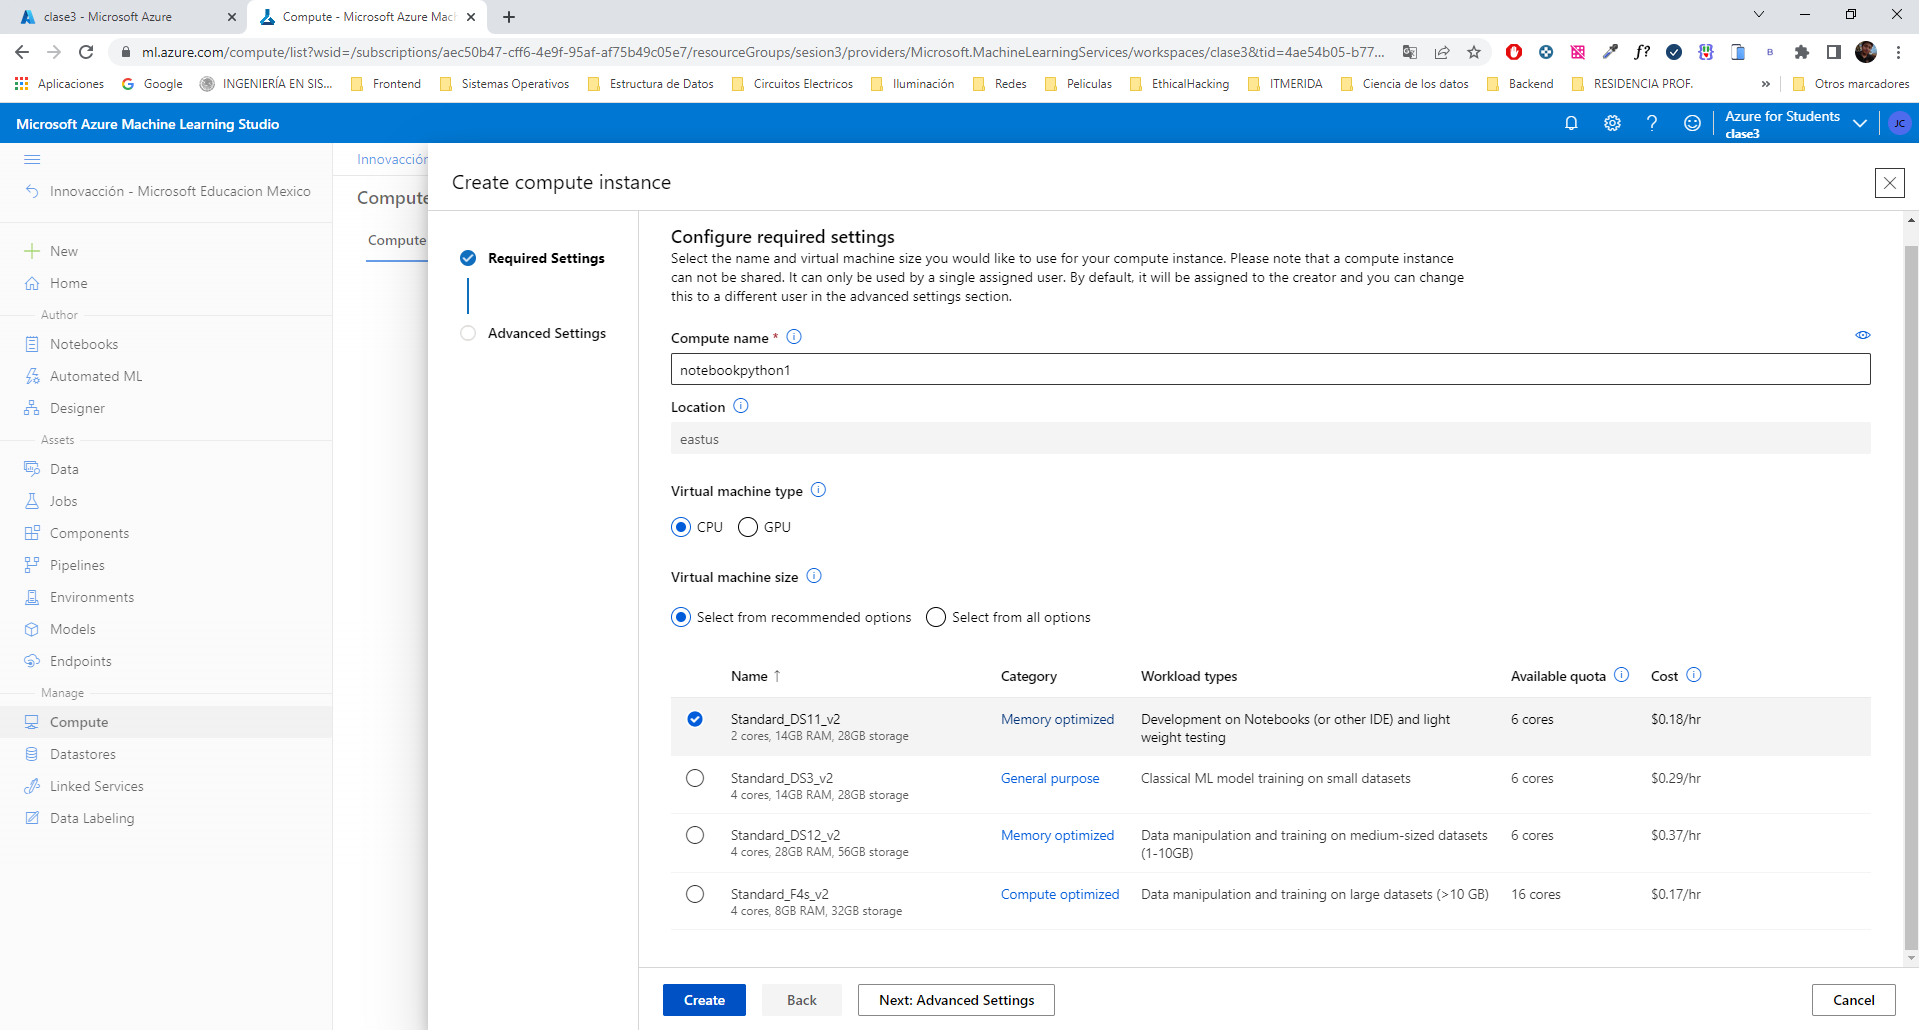
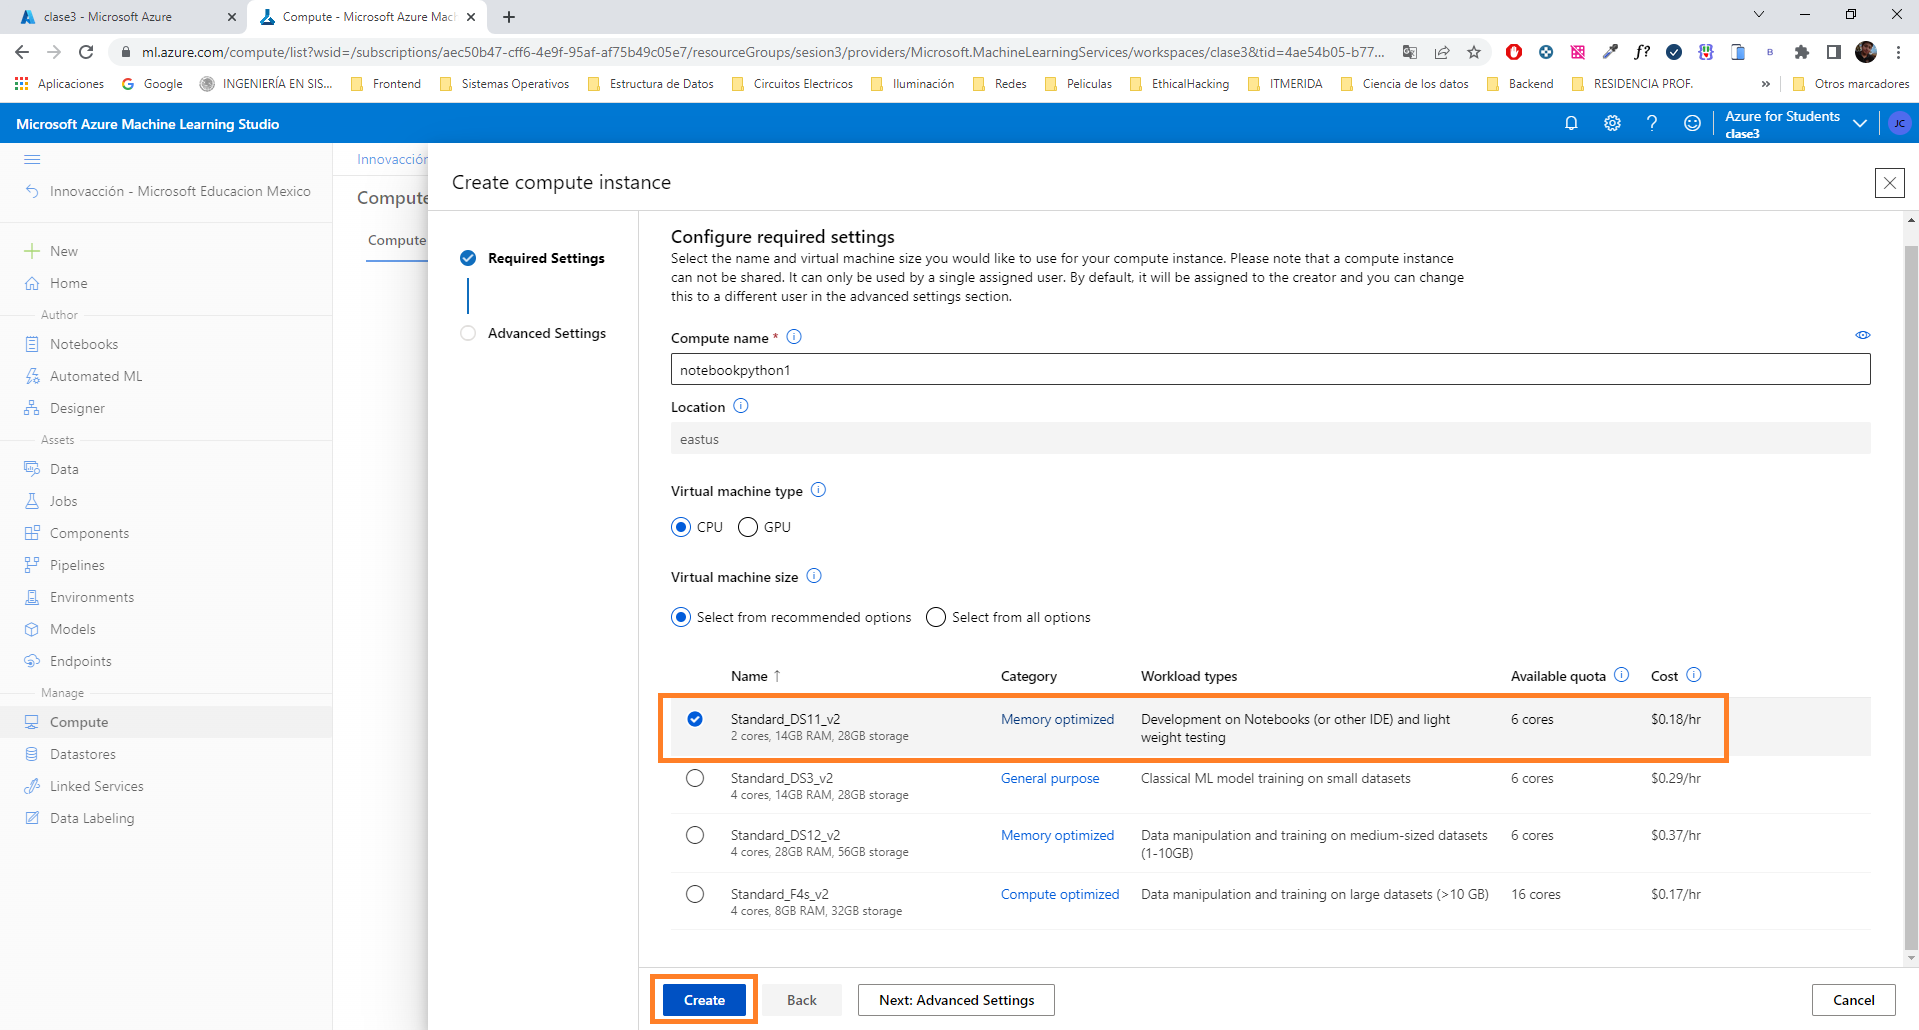
paso6

Changed region(s): [[0.3382, 0.7146, 0.9224, 0.7456], [0.3382, 0.6524, 0.8916, 0.6835], [0.3382, 0.932, 0.3997, 0.9942]]

diff --git a/entorno-ejecución de ML/README.md b/entorno-ejecución de ML/README.md
@@ -64,3 +64,7 @@ Paso 4.- Entrar a la página de [Azure Machine Learning](https://ml.azure.com/ho
 Paso 5.- Procederemos a crear una instancia de trabajo.
 
 ![](https://github.com/EnriqueCocom/PracticasAZ-900/blob/main/entorno-ejecuci%C3%B3n%20de%20ML/imagenes/paso5.png)
+
+Paso 6.-
+
+![]()
